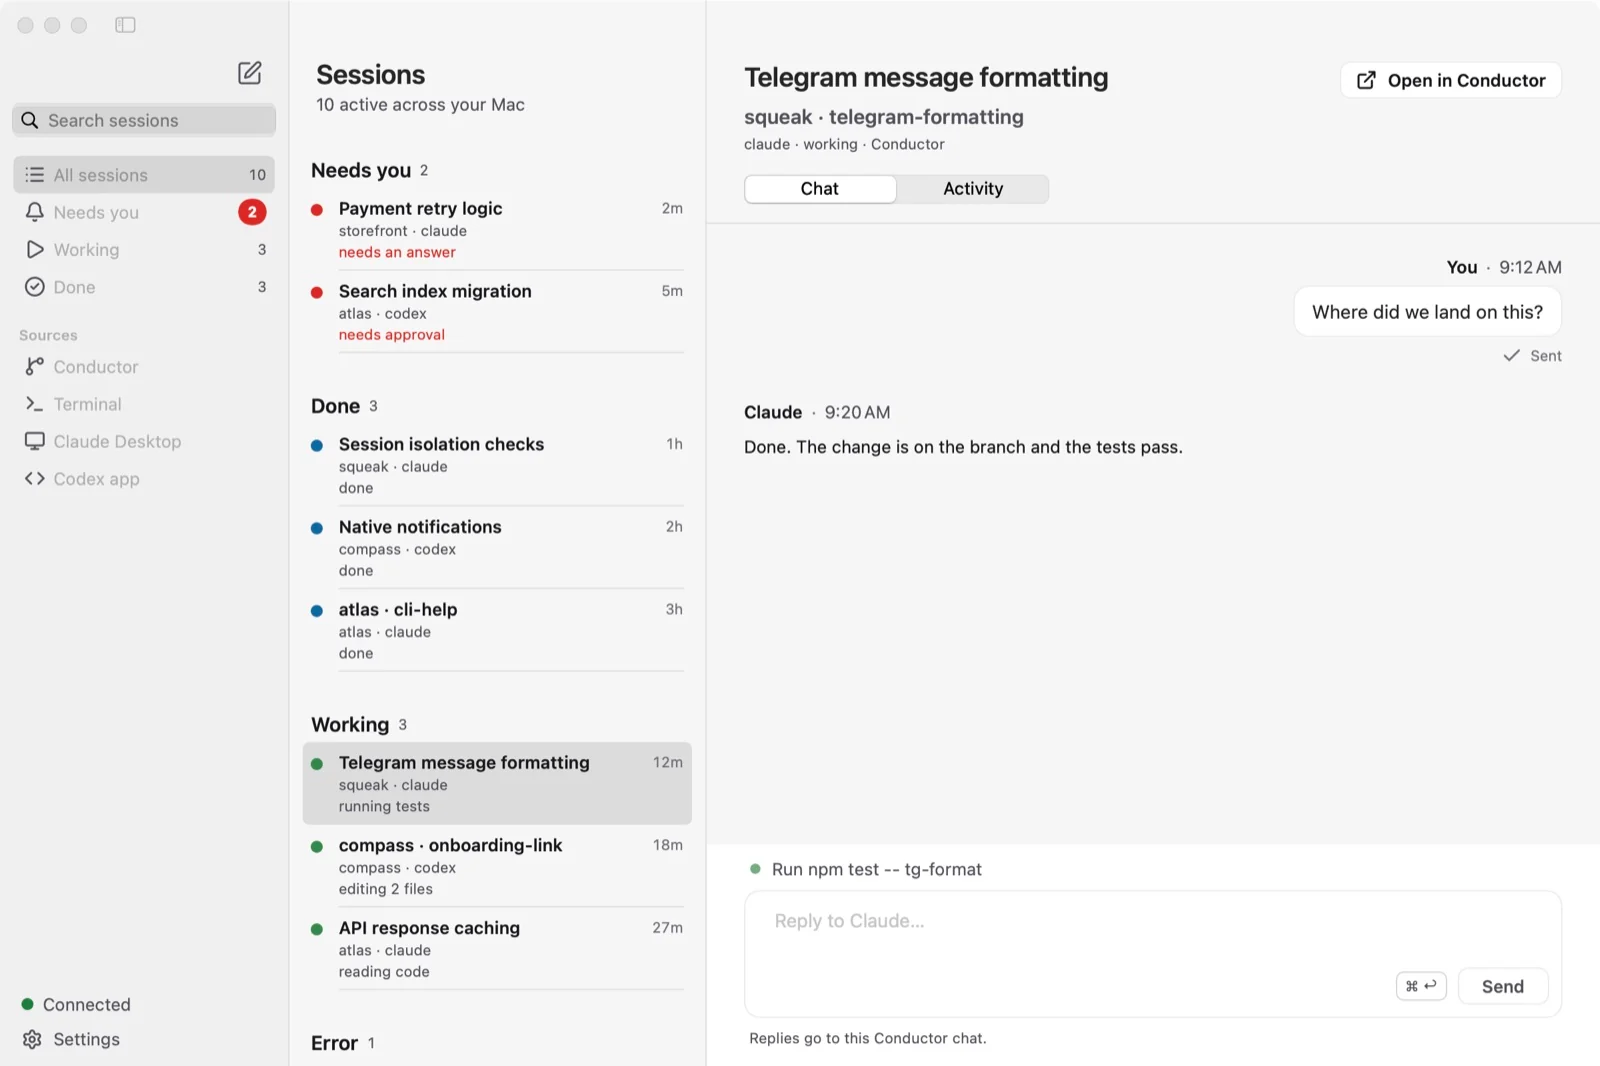
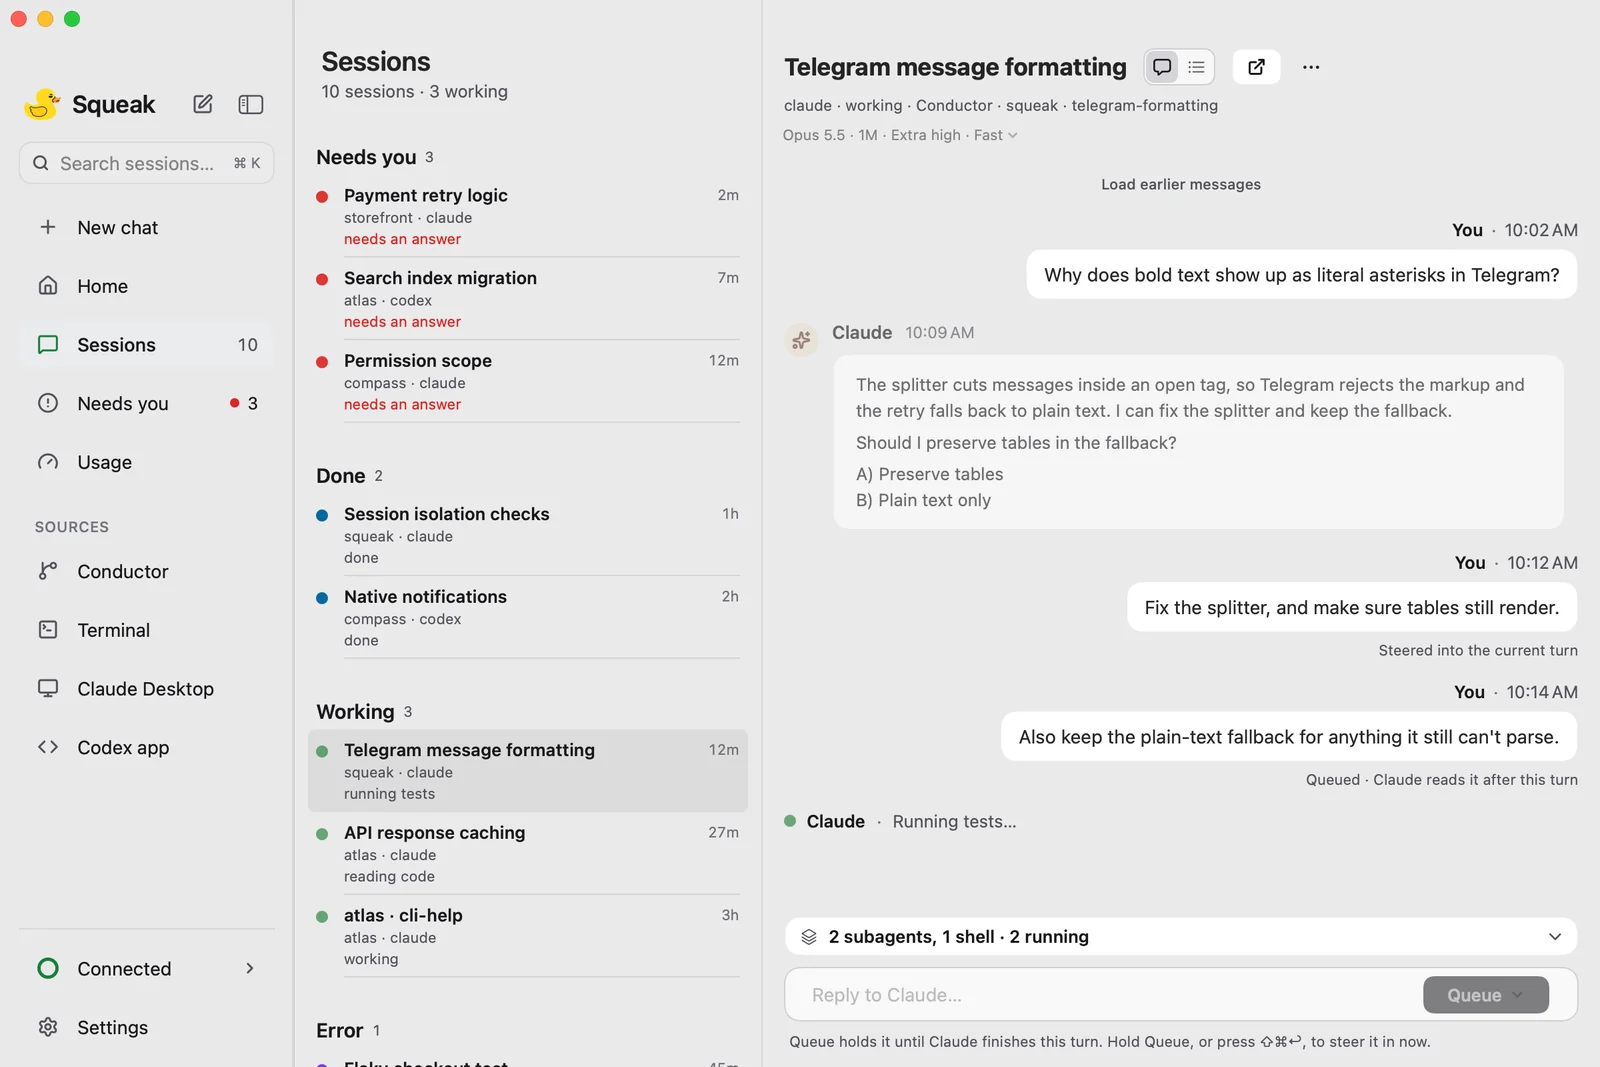
Refresh Squeak website screenshots

diff --git a/squeak/index.html b/squeak/index.html
@@ -44,11 +44,11 @@
   "image": "https://sibhimanyu.github.io/squeak/assets/og.png",
   "applicationCategory": "DeveloperApplication",
   "operatingSystem": "macOS 14.0 or later, iOS (iPhone companion app)",
-  "softwareVersion": "2.11.9",
-  "downloadUrl": "https://sibhimanyu.github.io/squeak/download/Squeak-2.11.9.dmg",
+  "softwareVersion": "2.11.10",
+  "downloadUrl": "https://sibhimanyu.github.io/squeak/download/Squeak-2.11.10.dmg",
   "releaseNotes": null,
   "datePublished": "2026-10-29",
-  "fileSize": "51.1 MB",
+  "fileSize": "51.4 MB",
   "offers": {
     "@type": "Offer",
     "price": "0",
@@ -117,10 +117,10 @@
           <p class="hero__lede" data-hero-in>See every Conductor chat in one attention-first inbox. Read the question, reply or steer the work, then keep up from your Mac, iPhone, Squeak for Web, Telegram or Zoho Cliq.</p>
           <div class="hero__cta" data-hero-in>
             <div class="actions">
-              <a class="btn btn--primary" href="https://sibhimanyu.github.io/squeak/download/Squeak-2.11.9.dmg" download data-magnet>Download for Mac</a>
+              <a class="btn btn--primary" href="https://sibhimanyu.github.io/squeak/download/Squeak-2.11.10.dmg" download data-magnet>Download for Mac</a>
               <a class="btn btn--ghost" href="#conductor">Explore Conductor features</a>
             </div>
-            <p class="hero__meta">Version 2.11.9 · macOS 14 or later · Apple silicon · Free</p>
+            <p class="hero__meta">Version 2.11.10 · macOS 14 or later · Apple silicon · Free</p>
           </div>
         </div>
       </div>
@@ -174,10 +174,10 @@
     <div class="mac__stage" data-mac>
       <div class="mac__plane" data-plane>
         <figure class="shot shot--b" aria-hidden="true" data-shot-b>
-          <img src="./assets/mac-activity.webp" width="1600" height="1066" alt="" loading="lazy">
+          <img src="./assets/mac-activity.webp" width="1600" height="1067" alt="" loading="lazy">
         </figure>
         <figure class="shot shot--a" data-shot-a>
-          <img src="./assets/mac-decision.webp" width="1600" height="1066" alt="The Squeak window. A sidebar lists filters and sources. Sessions are grouped as Needs you, Done, Working and Error. The open session, Payment retry logic in storefront · payment-retries, shows the agent&#39;s message and the question how temporary failures should be retried, with two answer rows, the first marked recommended, and a reply box." loading="lazy">
+          <img src="./assets/mac-decision.webp" width="1600" height="1067" alt="The Squeak window. A sidebar lists filters and sources. Sessions are grouped as Needs you, Done, Working and Error. The open session, Payment retry logic in storefront · payment-retries, shows the agent&#39;s message and the question how temporary failures should be retried, with two answer rows, the first marked recommended, and a reply box." loading="lazy">
           <span class="pin pin--1" aria-hidden="true">1</span>
           <span class="pin pin--2" aria-hidden="true">2</span>
           <span class="pin pin--3" aria-hidden="true">3</span>
@@ -188,7 +188,7 @@
     <ol class="callouts" aria-label="What to notice in the window">
       <li data-callout><span class="callouts__n" aria-hidden="true">1</span><h3>What needs you comes first</h3><p>Sessions are grouped by state, across Conductor and supported local agent sessions.</p></li>
       <li data-callout><span class="callouts__n" aria-hidden="true">2</span><h3>The agent&#39;s own words</h3><p>The latest message and parsed choices. A recommendation is marked, never pre-selected.</p></li>
-      <li data-callout><span class="callouts__n" aria-hidden="true">3</span><h3>A reply that lands</h3><p>Squeak sends to the correct Conductor chat, then checks delivery before reporting success.</p></li>
+      <li data-callout><span class="callouts__n" aria-hidden="true">3</span><h3>Replies go to the right chat</h3><p>The reply box routes your answer to this Conductor chat.</p></li>
     </ol>
   </div>
 </section>
@@ -207,8 +207,8 @@
           <span class="stack__plate stack__plate--1" aria-hidden="true"></span>
           <span class="stack__plate stack__plate--2" aria-hidden="true"></span>
           <figure class="phone" data-phone>
-            <img src="./assets/iphone-activity.webp" width="700" height="1522" alt="Squeak for iPhone showing the session squeak · session-hub at work. A What it&#39;s doing list shows the latest five of seventeen steps, with a message box at the bottom." loading="lazy">
-            <figcaption>A working turn, on the phone.</figcaption>
+            <img src="./assets/iphone-activity.webp" width="700" height="1521" alt="Squeak for iPhone showing Projects with eight sessions across workspaces, including a project with an approval request and a working session. Home, Sessions, Needs you, and Settings tabs appear at the bottom." loading="lazy">
+            <figcaption>Your projects and sessions at a glance on iPhone.</figcaption>
           </figure>
           <figure class="tg" role="group" aria-label="A Telegram card for the example session" data-tg>
             <p class="tg__from">Squeak</p>
@@ -300,12 +300,12 @@
     <div class="install__copy">
       <p class="kicker">06 / Install</p>
       <h2 id="install-h" data-lines>Keep Conductor close.</h2>
-      <p class="section__lede">Squeak 2.11.9 for Mac, as a disk image. It is free and ad-hoc signed rather than notarized, so macOS asks once before the first launch. After that, Squeak updates itself.</p>
+      <p class="section__lede">Squeak 2.11.10 for Mac, as a disk image. It is free and ad-hoc signed rather than notarized, so macOS asks once before the first launch. After that, Squeak updates itself.</p>
       <div class="actions">
-        <a class="btn btn--primary" href="https://sibhimanyu.github.io/squeak/download/Squeak-2.11.9.dmg" download data-magnet>Download for Mac</a>
+        <a class="btn btn--primary" href="https://sibhimanyu.github.io/squeak/download/Squeak-2.11.10.dmg" download data-magnet>Download for Mac</a>
         <a class="btn btn--ghost" href="https://github.com/Sibhimanyu/squeak/releases/latest">All releases</a>
       </div>
-      <p class="install__meta">Squeak-2.11.9.dmg · macOS 14 or later · Free</p>
+      <p class="install__meta">Squeak-2.11.10.dmg · macOS 14 or later · Free</p>
     </div>
     <div class="pond" data-pond data-count="8" data-count-small="6" data-size="138" data-size-small="96" role="img" aria-label="Decoration: a small pile of Squeak&#39;s rubber duck mascot pours into a box and settles. Moving a pointer over it nudges the ducks.">
       <div class="pond__field" data-field>
@@ -323,7 +323,7 @@
       </div>
     </div>
     <ol class="install__steps" aria-label="Install in three steps">
-      <li><span class="step__n" aria-hidden="true">1</span><h3>Open the disk image</h3><p>Open Squeak-2.11.9.dmg from your Downloads and drag Squeak onto Applications.</p></li>
+      <li><span class="step__n" aria-hidden="true">1</span><h3>Open the disk image</h3><p>Open Squeak-2.11.10.dmg from your Downloads and drag Squeak onto Applications.</p></li>
       <li><span class="step__n" aria-hidden="true">2</span><h3>Open it the first time</h3><p>Right-click Squeak in Applications, choose Open, then Open again. If macOS still refuses, press Open Anyway in System Settings › Privacy &amp; Security.</p></li>
       <li><span class="step__n" aria-hidden="true">3</span><h3>Find it in the menu bar</h3><p>Squeak connects to Conductor and lists your chats. Replies from any device go through the Squeak service on your Mac, which must be awake and running.</p></li>
     </ol>

diff --git a/squeak/styles.css b/squeak/styles.css
@@ -210,9 +210,9 @@ h3 { font: 600 20px/1.25 var(--display); letter-spacing: -.01em; }
 .shot--b { position: absolute; inset: 0; transform: translate(5%, -7%) rotate(1.5deg) scale(.94); }
 .shot--a { z-index: 1; }
 .pin { position: absolute; translate: -50% -50%; width: 30px; height: 30px; border-radius: 50%; background: var(--duck); color: var(--ink); border: 2px solid var(--ink); display: grid; place-items: center; font: 700 14px/1 var(--display); z-index: 2; }
-.pin--1 { left: 41%; top: 24%; }
-.pin--2 { left: 94.5%; top: 44%; }
-.pin--3 { left: 64%; top: 97%; }
+.pin--1 { left: 41%; top: 21.5%; }
+.pin--2 { left: 94.5%; top: 42.5%; }
+.pin--3 { left: 64%; top: 93%; }
 .shot__link { max-width: 1080px; margin: 8px auto 0; text-align: right; }
 .shot__link a { display: inline-flex; align-items: center; min-height: 44px; }
 .callouts { max-width: 1080px; margin: clamp(12px, 2vw, 24px) auto 0; display: grid; gap: 24px; }
